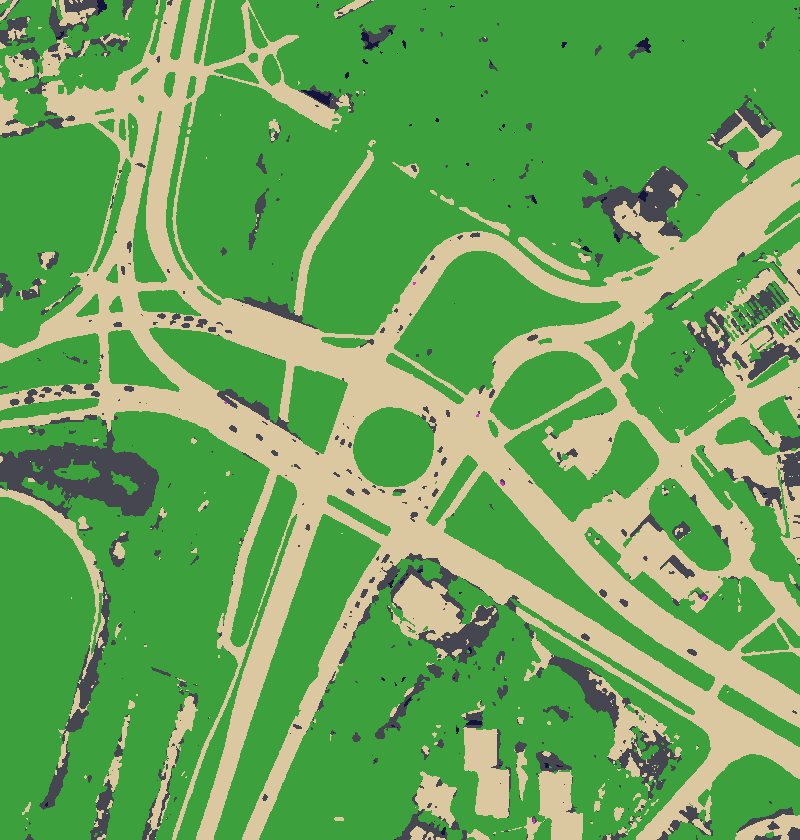
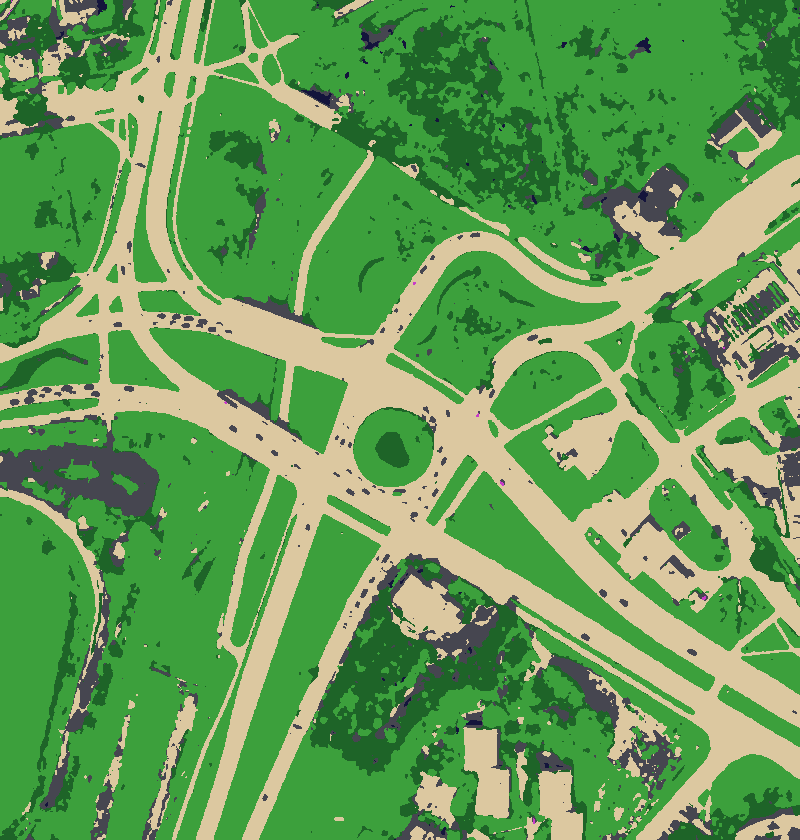
fix(orto): zieleń pod koronami jako osobna klasa pokrycia (G-672)
Glitch: G-672. Klasyfikator uśredniał nadmiar zieleni (ExG) z trzech
nalotów, więc dwa letnie (2023-09, 2024-06) zazieleniały kostkę pod
koronami drzew. Kontrola added-paving-on-green potrzebowała przez to
trzech wyjątków (T-246/ruska-a, T-246/ruska-b, T-245/zn2-wschod-trawnik).

Zmiana:
- classify.ts: próbka zielona w średniej, ale z ExG nalotu bez liści
  2025-04 poniżej leafOffExg (0,026, jak greenExg), dostaje nową klasę
  `canopy` (indeks 6, na końcu, więc stare indeksy bez zmian).
  CLASSIFIER_VERSION 1 -> 2.
- Rastry data/orto przegenerowane z lokalnego cache (build.ts, bez
  pobrań). green + canopy = dawne green w każdej dzielnicy, pozostałe
  klasy bez zmian. PNG: 185 -> 228 KiB razem (+43 KiB). Atrybucja i
  manifest zachowane.
- agreement.ts i report.ts liczą canopy jako zieleń trawnika, więc
  cover-truth.test.ts daje te same liczby przy tych samych progach.
- added-grass.ts: kostka liczy się jako na zieleni tylko przy >= 15%
  próbek zielonych także na nalocie bez liści (MIN_LEAF_OFF_GREEN).
  Pomiar: kostka pod koronami 2-8%. Z 272 trawników mapy, które letnie
  naloty widzą jako zielone, 83% ma >= 15% (88% przy 10%, 82% przy 20%).
  Reszta to trawniki całe pod drzewami. Udziały liczone z próbek
  (ringCounts), nie z m² zaokrąglanych osobno dla każdej klasy: po
  podziale zieleni zaokrąglenie przesuwało T-246/klomb-przy-kiosku
  (dokładnie 50%) nad próg.
- PAVING_ON_GREEN_KNOWN pusta: trzy wyjątki zbędne. Lista zostaje na
  przyszłość.
[…]

diff --git a/tools/glitch-scan/test/added-grass.ts b/tools/glitch-scan/test/added-grass.ts
@@ -1,7 +1,7 @@
 import type { AddedArea } from "../../osm-import/src/corrections.ts";
 import { type Pt } from "../../osm-import/src/geometry.ts";
 import { type Cover } from "../../orto/src/cover.ts";
-import { ringOverlay } from "../../orto/src/overlay.ts";
+import { ringCounts } from "../../orto/src/overlay.ts";
 import { share } from "../../orto/src/rings.ts";
 
 /**
@@ -12,13 +12,25 @@ import { share } from "../../orto/src/rings.ts";
  * one laid on paving skews its tuning as well.
  *
  * `added-paving-on-green` (G-670), its mirror: an added area of paving or asphalt (`area:highway`)
- * with `MIN_GREEN` of its samples green or more, so laid over a lawn or under trees.
+ * with `MIN_GREEN` of its samples green or more, so laid over a lawn. Green under crowns counts
+ * only with `MIN_LEAF_OFF_GREEN` of the samples green on the leaf-off flight as well (G-672): paving
+ * under trees is green on the summer flights alone, a lawn shows on the leaf-off one too.
  */
 
 type Finding = { readonly at: string; readonly what: string };
 
 /** The least share of green samples (those off the photograph left out) a lawn needs. */
 export const MIN_GREEN = 0.5;
+
+/**
+ * The least share of samples green on the leaf-off flight (class `green`, not `canopy`) paving on
+ * green needs (G-672). Measured 12.11.2026: paving under the crowns by Ruska and Zana 2-8%; of the
+ * map's 272 lawns the summer flights see green, 83% at 15% or more (88% at 10%, 82% at 20%), the
+ * rest under trees all along.
+ */
+export const MIN_LEAF_OFF_GREEN = 0.15;
+
+const GREEN = ["green", "canopy"] as const;
 
 /**
  * The added lawns off the orthophoto's green on purpose or by the classifier's fault, by id, with the
@@ -32,15 +44,8 @@ export const GRASS_OFF_GREEN_KNOWN: Readonly<Record<string, string>> = {
   "T-245/rabata-kolegium-poludnie": "T-245: the bed lies in the shadow of the Collegium's wall: the classifier's fault",
 };
 
-/**
- * The added paving green on the orthophoto by the classifier's fault, by id, with the entry of
- * `docs/topografia.md` and why (G-670): crowns of trees over it, as the leaf-off flight shows.
- */
-export const PAVING_ON_GREEN_KNOWN: Readonly<Record<string, string>> = {
-  "T-246/ruska-a": "T-246: paving under the crowns of the trees by Ruska, grey on the leaf-off flight 2025-04: the classifier's fault",
-  "T-246/ruska-b": "T-246: paving and parking bays under the crowns by Ruska, no green on the leaf-off flight 2025-04: the classifier's fault",
-  "T-245/zn2-wschod-trawnik": "T-245: paving under the crown of the tree on the lawn w1380056204, no green on the leaf-off flight 2025-04: the classifier's fault",
-};
+/** The added paving green on the orthophoto by the classifier's fault, by id, with the entry of `docs/topografia.md` and why (G-670). */
+export const PAVING_ON_GREEN_KNOWN: Readonly<Record<string, string>> = {};
 
 const isGrass = (a: AddedArea): boolean => a.tags.landuse === "grass" || a.tags.landuse === "flowerbed";
 
@@ -49,12 +54,13 @@ const isPaving = (a: AddedArea): boolean => a.tags["area:highway"] !== undefined
 const middle = (ring: readonly Pt[]): Pt => ({ x: ring.reduce((s, p) => s + p.x, 0) / ring.length, z: ring.reduce((s, p) => s + p.z, 0) / ring.length });
 
 /** The areas whose share of green on the cover `wrong` holds, as findings; an area off the rasters left out. */
-const byGreen = (areas: readonly AddedArea[], covers: readonly Cover[], wrong: (green: number) => boolean): Finding[] =>
+const byGreen = (areas: readonly AddedArea[], covers: readonly Cover[], wrong: (green: number, leafOff: number) => boolean): Finding[] =>
   areas.flatMap((a) => {
-    const m2 = ringOverlay(covers, a.ring);
-    if (!m2) return [];
-    const green = share(m2, ["green"]);
-    if (!wrong(green)) return [];
+    // Shares of whole samples: m² rounded a class would tip an area at exactly half once green is split in two.
+    const n = ringCounts(covers, a.ring);
+    if (!n) return [];
+    const green = share(n, GREEN);
+    if (!wrong(green, share(n, ["green"]))) return [];
     const c = middle(a.ring);
     return [{ at: `${c.x.toFixed(1)},${c.z.toFixed(1)}`, what: `${a.id}: ${Math.round(green * 100)}% green on the orthophoto` }];
   });
@@ -70,5 +76,5 @@ export const addedPavingOnGreen = (areas: readonly AddedArea[], covers: readonly
   byGreen(
     areas.filter((a) => isPaving(a) && known[a.id] === undefined),
     covers,
-    (green) => green >= MIN_GREEN,
+    (green, leafOff) => green >= MIN_GREEN && leafOff >= MIN_LEAF_OFF_GREEN,
   );

diff --git a/tools/glitch-scan/test/added-grass.test.ts b/tools/glitch-scan/test/added-grass.test.ts
@@ -1,16 +1,22 @@
 import { describe, expect, it } from "vitest";
 import { ADDED_AREAS, type AddedArea } from "../../osm-import/src/corrections.ts";
 import { COVER } from "../../orto/src/classify.ts";
-import { emptyCover } from "../../orto/src/cover.ts";
+import { emptyCover, readCover } from "../../orto/src/cover.ts";
+import { ringCounts } from "../../orto/src/overlay.ts";
+import { MAP_REGIONS } from "../../orto/src/region.ts";
+import { share } from "../../orto/src/rings.ts";
 import { THRESHOLDS } from "../../orto/src/thresholds.ts";
-import { GRASS_OFF_GREEN_KNOWN, PAVING_ON_GREEN_KNOWN, addedGrassOffGreen, addedPavingOnGreen } from "./added-grass";
+import { loadOsm, truthAreas } from "../../orto/src/truth.ts";
+import { GRASS_OFF_GREEN_KNOWN, MIN_GREEN, PAVING_ON_GREEN_KNOWN, addedGrassOffGreen, addedPavingOnGreen } from "./added-grass";
 
-/** A 10 × 10 m cover, green on its west half (x < 5) and paving on its east. */
-const cover = () => {
+/** A 10 × 10 m cover, `west` on its west half (x < 5: green also on the leaf-off flight by default) and paving on its east. */
+const cover = (west: number = COVER.green) => {
   const c = emptyCover("t", { minX: 0, minZ: 0, maxX: 10, maxZ: 10 }, THRESHOLDS);
-  c.cls.forEach((_, i) => (c.cls[i] = i % 20 < 10 ? COVER.green : COVER.paving));
+  c.cls.forEach((_, i) => (c.cls[i] = i % 20 < 10 ? west : COVER.paving));
   return c;
 };
+
+const COVERS = MAP_REGIONS.map((r) => readCover(r.slug)).filter((c) => c !== undefined);
 
 const area = (id: string, tags: AddedArea["tags"], x0: number, x1: number): AddedArea => ({
   id,
@@ -43,6 +49,32 @@ describe("added-grass-off-green and added-paving-on-green (G-627, G-670)", () =>
     expect(addedPavingOnGreen([area("T-1/kostka", PAVING, 20, 24)], [cover()], {})).toEqual([]);
     expect(addedPavingOnGreen([area("T-1/kostka", PAVING, 1, 4)], [cover()], { "T-1/kostka": "T-1: crowns" })).toEqual([]);
     expect(addedPavingOnGreen([area("T-1/kostka", PAVING, 1, 4)], [cover()], { "T-1/inna": "T-1: crowns" })).toHaveLength(1);
+  });
+
+  it("takes green only under crowns for a lawn, and not for paving: no green on the leaf-off flight (G-672)", () => {
+    expect(addedGrassOffGreen([area("T-1/trawnik", LAWN, 1, 4)], [cover(COVER.canopy)], {})).toEqual([]);
+    expect(addedPavingOnGreen([area("T-1/kostka", PAVING, 1, 4)], [cover(COVER.canopy)], {})).toEqual([]);
+    const mixed = cover(COVER.canopy);
+    mixed.cls.forEach((v, i) => (mixed.cls[i] = v === COVER.canopy && Math.floor(i / 20) % 4 === 0 ? COVER.green : v));
+    expect(addedPavingOnGreen([area("T-1/kostka", PAVING, 1, 4)], [mixed], {})).toHaveLength(1);
+  });
+
+  it("counts no paving under the crowns by Ruska and Zana as on green: grey on the leaf-off flight 2025-04 (G-672)", () => {
+    const crowns = ADDED_AREAS.filter((a) => ["T-246/ruska-a", "T-246/ruska-b", "T-245/zn2-wschod-trawnik"].includes(a.id));
+    expect(crowns).toHaveLength(3);
+    expect(addedPavingOnGreen(crowns, COVERS, {})).toEqual([]);
+  });
+
+  it("still counts paving laid over the map's lawns as on green (G-672)", () => {
+    const lawns = truthAreas(loadOsm()).filter((a) => a.kind === "lawn");
+    const asPaving = lawns.map((a) => ({ id: a.id, tags: PAVING, ring: a.ring, nodesOf: a.ring.map(() => null), reason: "", ref: "" }));
+    // Out of the lawns the summer flights see green; those under trees all along stay out (83% counted, 12.11.2026).
+    const summerGreen = asPaving.filter((a) => {
+      const n = ringCounts(COVERS, a.ring);
+      return n !== undefined && share(n, ["green", "canopy"]) >= MIN_GREEN;
+    });
+    expect(summerGreen.length).toBeGreaterThan(200);
+    expect(addedPavingOnGreen(summerGreen, COVERS, {}).length / summerGreen.length).toBeGreaterThanOrEqual(0.8);
   });
 
   const listedIn = (known: Readonly<Record<string, string>>, of: (a: AddedArea) => boolean) => {

diff --git a/tools/orto/src/classify.ts b/tools/orto/src/classify.ts
@@ -1,15 +1,17 @@
 /**
- * Land cover from the orthophoto's colour (ADR-0077): green, light paving, asphalt, shadow or
- * unknown. Green from the excess green of RGB averaged over the flights (`FLIGHTS`), shadow from
- * their mean brightness, and a hard surface split by the current image's brightness and
- * saturation, which shows the ground under the trees (thresholds in `thresholds.ts`).
+ * Land cover from the orthophoto's colour (ADR-0077): green, green under crowns, light paving,
+ * asphalt, shadow or unknown. Green from the excess green of RGB averaged over the flights
+ * (`FLIGHTS`), shadow from their mean brightness, and a hard surface split by the current image's
+ * brightness and saturation, which shows the ground under the trees (thresholds in `thresholds.ts`).
+ * Green the leaf-off current image does not show is `canopy` (G-672): the two summer flights' crowns
+ * lift the mean over paving under trees as well as over a lawn in their shade or still brown in April.
  */
 import { THRESHOLDS, type Thresholds } from "./thresholds.ts";
 
 /** Palette indices of the cover raster. */
-export const COVER = { none: 0, green: 1, paving: 2, asphalt: 3, shadow: 4, unknown: 5 } as const;
+export const COVER = { none: 0, green: 1, paving: 2, asphalt: 3, shadow: 4, unknown: 5, canopy: 6 } as const;
 export type CoverClass = (typeof COVER)[keyof typeof COVER];
-export const COVER_NAMES = ["none", "green", "paving", "asphalt", "shadow", "unknown"] as const;
+export const COVER_NAMES = ["none", "green", "paving", "asphalt", "shadow", "unknown", "canopy"] as const;
 export type CoverName = (typeof COVER_NAMES)[number];
 /** Colours of the classes in the PNG: what a person opening it sees. */
 export const COVER_PALETTE: readonly (readonly [number, number, number])[] = [
@@ -19,6 +21,7 @@ export const COVER_PALETTE: readonly (readonly [number, number, number])[] = [
   [70, 70, 80],
   [20, 20, 60],
   [200, 60, 200],
+  [30, 100, 40],
 ];
 
 export type Colour = readonly [r: number, g: number, b: number];
@@ -45,8 +48,8 @@ export const classify = (flights: readonly Colour[], t: Thresholds = THRESHOLDS)
   const l = stats.reduce((s, c) => s + c.l, 0) / stats.length;
   const exg = stats.reduce((s, c) => s + c.exg, 0) / stats.length;
   if (l < t.shadowL) return COVER.shadow;
-  if (exg >= t.greenExg) return COVER.green;
   const now = stats[0]!;
+  if (exg >= t.greenExg) return now.exg >= t.leafOffExg ? COVER.green : COVER.canopy;
   if (now.s > t.hardS) return COVER.unknown;
   return now.l >= t.pavingL ? COVER.paving : COVER.asphalt;
 };

diff --git a/tools/orto/src/report.ts b/tools/orto/src/report.ts
@@ -28,7 +28,7 @@ const val = (name: string) => {
 };
 
 const covers: Cover[] = MAP_REGIONS.map((r) => readCover(r.slug)).filter((c) => c !== undefined);
-const m2 = (c: ClassCounts | undefined) => (c ? `zieleń ${c.green}, jasna ${c.paving}, asfalt ${c.asphalt}, cień ${c.shadow}, nieznane ${c.unknown}${c.none ? `, bez zdjęcia ${c.none}` : ""}` : "brak rastra");
+const m2 = (c: ClassCounts | undefined) => (c ? `zieleń ${c.green}, pod koronami ${c.canopy}, jasna ${c.paving}, asfalt ${c.asphalt}, cień ${c.shadow}, nieznane ${c.unknown}${c.none ? `, bez zdjęcia ${c.none}` : ""}` : "brak rastra");
 const hard = (c: ClassCounts) => Math.round((c.paving + c.asphalt) * 10) / 10;
 const inside = (ring: readonly { x: number; z: number }[], r: Rect) => ring.some((p) => p.x > r.minX && p.x < r.maxX && p.z > r.minZ && p.z < r.maxZ);
 
@@ -66,7 +66,7 @@ const cellText = (r: CellReport): string[] => {
     const grass = g.surfaces.grass;
     const paved = Object.entries(g.surfaces).filter(([s]) => s !== "grass" && s !== "water" && s !== "basin" && s !== "rail");
     if (grass) out.push(`trawa importu na nawierzchni ortofoto: ${hard(grass)} m² z ${Math.round(Object.values(grass).reduce((s, v) => s + v, 0))} m²`);
-    out.push(`nawierzchnia importu na zieleni ortofoto: ${Math.round(paved.reduce((s, [, c]) => s + c.green, 0) * 10) / 10} m²`);
+    out.push(`nawierzchnia importu na zieleni ortofoto: ${Math.round(paved.reduce((s, [, c]) => s + c.green + c.canopy, 0) * 10) / 10} m²`);
   } else out.push("brak rastra pokrycia");
   out.push(`meble (razem/OSM/generator): ${Object.entries(r.furniture).map(([k, c]) => `${k} ${c.total}/${c.osm}/${c.generator}`).join(", ")}`);
   out.push(`chodniki bez mebli > ${r.emptyPavements.over} m: ${r.emptyPavements.count} odcinków, ${r.emptyPavements.metres} m${r.emptyPavements.longest.slice(0, 3).map((x) => `; ${x.street} (${x.side}) ${x.length} m od ${x.from.x},${x.from.z}`).join("")}`);

diff --git a/tools/orto/src/agreement.ts b/tools/orto/src/agreement.ts
@@ -1,5 +1,5 @@
 /**
- * How well the cover agrees with the truth (ADR-0077): the share of green samples on the lawns and
+ * How well the cover agrees with the truth (ADR-0077): the share of green samples (under crowns too) on the lawns and
  * of hard surface (light paving or asphalt) on the paved areas, each area's samples at least
  * `TRUTH_INSET` from its edges (the photograph's lean and the 0.5 m grid blur them). Shadow and
  * samples off the raster are left out of the shares and counted on their own.
@@ -13,7 +13,7 @@ import { type TruthArea, type TruthKind } from "./truth.ts";
 /** How far inside a truth area its samples lie (m). */
 export const TRUTH_INSET = 1;
 
-export const WANTED: Readonly<Record<TruthKind, readonly CoverName[]>> = { lawn: ["green"], paving: ["paving", "asphalt"] };
+export const WANTED: Readonly<Record<TruthKind, readonly CoverName[]>> = { lawn: ["green", "canopy"], paving: ["paving", "asphalt"] };
 
 export interface Agreement {
   readonly samples: number;
@@ -39,7 +39,7 @@ export const agreement = (cover: Cover, areas: readonly TruthArea[], kind: Truth
     const c = countAt(cover, ks);
     for (const n of Object.keys(c) as CoverName[]) counts[n] += c[n];
   }
-  const lit = counts.green + counts.paving + counts.asphalt + counts.unknown;
+  const lit = counts.green + counts.canopy + counts.paving + counts.asphalt + counts.unknown;
   const onRaster = lit + counts.shadow;
   return {
     samples: onRaster,

diff --git a/tools/orto/src/thresholds.ts b/tools/orto/src/thresholds.ts
@@ -15,6 +15,11 @@ export interface Thresholds {
   readonly shadowL: number;
   /** Green: the flights' mean ExG at or over this. */
   readonly greenExg: number;
+  /**
+   * Green also on the ground: the current (leaf-off) image's own ExG at or over this; under it, green
+   * under crowns (G-672). As `greenExg`: paving under the crowns by Ruska keeps 4% of it, 0.02 kept 20%.
+   */
+  readonly leafOffExg: number;
   /** A hard surface more saturated than this in the current image is something else (a coloured roof, a car, a court): unknown. */
   readonly hardS: number;
   /** Light paving: the current image's L at or over this; darker is asphalt. */
@@ -25,6 +30,7 @@ export const THRESHOLDS: Thresholds = {
   smooth: 1,
   shadowL: 50,
   greenExg: 0.026,
+  leafOffExg: 0.026,
   hardS: 0.4,
   pavingL: 115,
 };

diff --git a/tools/orto/src/overlay.ts b/tools/orto/src/overlay.ts
@@ -25,6 +25,12 @@ const coverOfRing = (covers: readonly Cover[], ring: readonly Pt[]): Cover | und
   return [...votes].sort((a, b) => b[1] - a[1])[0]?.[0];
 };
 
+/** Samples by class in a ring, from the raster holding most of its vertices. */
+export const ringCounts = (covers: readonly Cover[], ring: readonly Pt[]): ClassCounts | undefined => {
+  const cover = coverOfRing(covers, ring);
+  return cover ? countAt(cover, samplesIn(cover.header, ring)) : undefined;
+};
+
 /** m² by class in a ring, from the raster holding most of its vertices. */
 export const ringOverlay = (covers: readonly Cover[], ring: readonly Pt[]): ClassCounts | undefined => {
   const cover = coverOfRing(covers, ring);

diff --git a/tools/orto/test/orto-units.test.ts b/tools/orto/test/orto-units.test.ts
@@ -42,6 +42,11 @@ describe("the orthophoto tool's parts", () => {
     expect(classify([])).toBe(COVER.none);
   });
 
+  it("tells green under crowns, grey on the leaf-off flight, from green on the ground (G-672)", () => {
+    expect(classify([[150, 150, 145], [50, 110, 40], [55, 115, 45]])).toBe(COVER.canopy);
+    expect(classify([[110, 118, 95], [50, 110, 40], [55, 115, 45]])).toBe(COVER.green);
+  });
+
   it("counts the samples of a ring, optionally away from its edges", () => {
     const c: Cover = emptyCover("t", { minX: 0, minZ: 0, maxX: 10, maxZ: 10 }, THRESHOLDS);
     c.cls.fill(COVER.green);

diff --git a/tools/orto/src/manifest.ts b/tools/orto/src/manifest.ts
@@ -14,7 +14,7 @@ import { THRESHOLDS } from "./thresholds.ts";
 export const MANIFEST = join(COVER_DIR, "sources.json");
 
 /** Raised with any change to `classify.ts`, `thresholds.ts` or the sampling in `cover.ts`. */
-export const CLASSIFIER_VERSION = 1;
+export const CLASSIFIER_VERSION = 2;
 
 export interface CoverEntry {
   readonly slug: string;

diff --git a/tools/orto/README.md b/tools/orto/README.md
@@ -13,6 +13,6 @@ Narzędzie ma trzy kroki: pamięć podręczną ortofoto PZGiK, klasyfikator pokr
    - `--area <id>` albo `--added` liczy m² obszarów z `ADDED_AREAS`.
 
 ## Klasy i progi
-- Klasy: zieleń, jasna nawierzchnia, asfalt, cień, nieznane, brak zdjęcia.
+- Klasy: zieleń, zieleń pod koronami (zielona tylko na letnich nalotach, nie na nalocie bez liści 2025-04; G-672), jasna nawierzchnia, asfalt, cień, nieznane, brak zdjęcia.
 - Progi są w `src/thresholds.ts`, a zgodność z prawdą trzyma `test/cover-truth.test.ts`.
 - Po zmianie progów puść `build.ts`, podbij `CLASSIFIER_VERSION` w `src/manifest.ts` i commituj rastry razem z progami.
